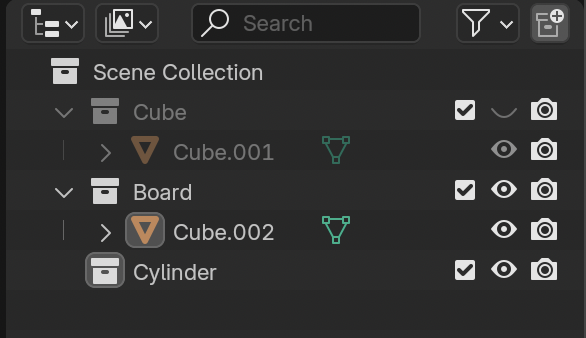
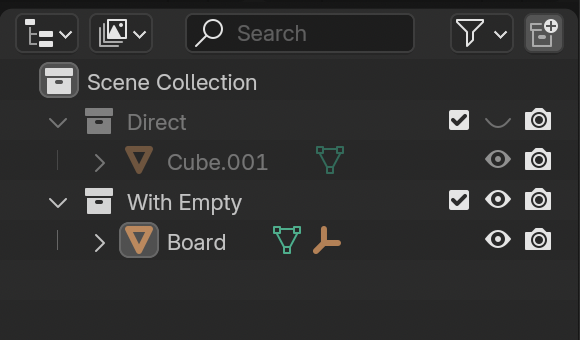
React to feedback

diff --git a/docs/avian/readme.md b/docs/avian/readme.md
@@ -3,6 +3,20 @@
 This guide assumes that you have a basic Blenvy setup ready to tinker in.
 If you don't have that yet, please refer to the [quickstart](../quickstart/readme.md) guide.
 
+## Table of Contents
+
+- [Add Avian to Bevy](#add-avian-to-bevy)
+- [Prepare your Scenes](#prepare-your-scenes)
+- [Create a Rigid Body](#create-a-rigid-body)
+- [Add Primitive Colliders](#add-primitive-colliders)
+  - [Direct](#direct)
+  - [With Empty](#with-empty)
+  - [Wireframes](#wireframes)
+- [Add Dynamic Colliders](#add-dynamic-colliders)
+  - [Convex](#convex)
+  - [Concave](#concave)
+- [Other useful components](#other-useful-components)
+
 ## Add Avian to Bevy
 
 No big surprises here. Simply add `avian3d` as a dependency by running the following from your project root:
@@ -42,76 +56,41 @@ fn setup(mut commands: Commands) {
 
 Run this once with `cargo.run` to generate a `registry.json` that contains the Avian components.
 
-## Prepare the Blueprints
+## Prepare your Scenes
 
-Set up your `World` and `Library` scenes in Blender. Switch to the `Library` scene.
+Set up your `World` and `Library` scenes in Blender.
+
+Go into your `World` scene. If you are coming from the [quickstart guide](../quickstart/readme.md), you can remove the `Player` instance as we don't need it in this guide.
+If you have created this scene yourself in advance, make sure that it contains a camera, a light, and some kind of ground.
+
+Since the objects are quite big, you may need to move the camera a bit further away to see them all.
+We set its Y location to `-15` and the X rotation to `90` for this reason.
+Pressing `0` on your numpad will show you a preview of what the camera sees.
+
+For reference, this is how our world setup looks:
+
+<details>
+<summary>The world setup before adding any physics</summary>
+<img src="img/empty_world.png" width = 100%/>
+</details>
+
+Now switch to the `Library` scene.
 If you're coming from the [quickstart](../quickstart/readme.md) guide, you may now delete the `Player` collection by
-right-clicking it in the outliner and selecting `Delete Hierarchy` as we don't need it in this guide.
+right-clicking it in the outliner and selecting `Delete Hierarchy`.
 Remember, you can find the outliner all the way to the right.
 
-We will be showing different ways to add colliders, so we need to add a blueprint for each approach.
-Create three new collections in the outliner by doing `rightclick` -> `New Collection` and name them as follows:
+## Create a Rigid Body
 
-- Cube
-- Board
-- Cylinder
+Create a new collection with `rightclick` -> `New Collection` and name it `Direct`. This name will make sense in the next section.
 
-Your outliner should now look like this:
-
-<details>
-<summary>Our empty collections</summary>
-<img src="img/empty_collections.png" width = 50%/>
-</details>
-
-If you accidentally created a collection as a child of another, simply drag-and-drop them around to reorder them until they look like the image above.
-
-### Cube
-
-Click on the `Cube` collection we just created to select it. Then, go to `Add` -> `Mesh` -> `Cube` in the upper left corner to add a cube to the collection. Leave it at the default transform.
-
-### Board
-
-Click on the `Board` collection. Again, go to `Add` -> `Mesh` -> `Cube`. This time, scale it until it looks like a flat board:
-
-<details>
-<summary>The cylinder in Blender</summary>
-<img src="img/cylinder.png" width = 50%/>
-</details>
-
-> [!TIP]
-> The above screenshot was made after disabling the visibility of the `Cube` collection by clicking the eye icon in the outliner.
->
-> <details>
-> <summary>Hiding objects</summary>
-> <img src="img/hiding.png" width = 50%/>
-> </details>
->
-> Hiding other collections becomes quickly essential when working with blueprints.
-
-The scaling we used was the following:
-
-- X: `2.5`
-- Y: `0.5`
-- Z: `1.5`
-
-### Cylinder
-
-Finally, click on the `Cylinder` collection. Go to `Add` -> `Mesh` -> `Cylinder`. Leave it at the default transform.
-
-You should now have three collections with different shapes in them:
-<details>
-<summary>Collections with objects in the outliner</summary>
-<img src="img/three_object_collection.png" width = 50%/>
-</details>
-
-## Add RigidBody Components
+Click on the `Direct` collection we just created to select it. Then, go to `Add` -> `Mesh` -> `Cube` in the upper left corner to add a cube to the collection. Leave it at the default transform.
 
 Avian makes a distinction between a *rigid body* and its associated *colliders*.
 In general, the best practice is to have a parent object be a rigid body and then have at least one descendant object be a collider.
 
-Adding the `RigidBody` is the same for all approaches:
+Add the `RigidBody` as follows:
 
-- select the object in the viewport
+- select the object in the viewport, i.e. the cube.
 - go to the Blenvy menu's component manager. Remember, if are missing the side menu, you can open it with `N`.
 - type `rigidbody` in the search bar
 - select `avian3d::dynamics::rigid_body::RigidBody`
@@ -129,7 +108,7 @@ The result should look like this:
 </details>
 
 The default value for `RigidBody` is `Dynamic`, which is what we want for all three objects.
-It means that they will be affected by gravity and other forces. Repeat this step for the `Board` and `Cylinder` objects.
+It means that they will be affected by gravity and other forces.
 
 ## Add Primitive Colliders
 
@@ -137,9 +116,9 @@ Colliders come in two flavors: primitive and dynamic. Primitives are made up of 
 
 There are three different ways to add primitive colliders to the objects, in order of increasing complexity.
 
-### Quick and Dirty
+### Direct
 
-Select the cube and search in the components for `colliderconstructor`. Select `avian3d::collision::collider::constructor::ColliderConstructor` and add it.
+Select the cube we just created and search in the components for `colliderconstructor`. Select `avian3d::collision::collider::constructor::ColliderConstructor` and add it.
 By default, the collider will be of the variant `Sphere`. Change it to `Cuboid`.
 Since the standard cube in Blender is of size 2 m, set the `x_length`, `y_length`, and `z_length` all to `2.0`:
 <details>
@@ -153,10 +132,83 @@ That's already it.
 > This method brings a major footgun: Blender uses Z-up coordinates, while Bevy uses Y-up coordinates.
 > The information you enter into the `ColliderConstructor` is in Bevy's coordinate system, so don't mix them up!
 
-### Using Empties
+To see it in action, we switch to the `World` scene and add and instance of our `Direct` collection with `Add` -> `Collection Instance`.
+
+<details>
+<summary>The world scene with the direct collider cube</summary>
+<img src="img/direct_in_world.png" width = 50%/>
+</details>
+
+Save the scene to let Blenvy export everything and run the game with `cargo run`.
+
+<details>
+<summary>The cube falls down</summary>
+<img src="img/falling_direct.gif" width = 50%/>
+</details>
+
+If everything went right, your cube should fall into the void due to gravity.
+Note that it phases right through the ground because we have not yet added a rigid body and collider to it yet.
+
+Click on the ground and add a `RigidBody` component as described before to it, but this time set it to `Static`.
+This means that the ground itself will not react to forces such as gravity, but will still affect other rigid bodies.
+
+Add a collider to the ground as before. Make sure that the dimensions of the collider match the dimensions of the ground.
+
+<details>
+<summary>Ground collider</summary>
+<img src="img/ground collider.png" width = 100%/>
+</details>
+
+> [!CAUTION]
+> As mentioned before, when using this method you should be aware that the component
+> is in Bevy's coordinate system, so set the `y_length` to the *height* of the ground.
+
+Run your game again with `cargo run` to see the cube landing on the ground.
+
+<details>
+<summary>The cube falls onto the ground</summary>
+<img src="img/falling_direct_on_static.gif" width = 50%/>
+</details>
+
+> [!TIP]
+> If your scene is doing something weird, try adding Avian's
+> [`PhysicsDebugPlugin`](https://docs.rs/avian3d/latest/avian3d/debug_render/struct.PhysicsDebugPlugin.html)
+> to your Bevy app to see the colliders at runtime.  
+> If the collider looks flipped, try switching the Y and Z lengths.
+
+### With Empty
+
+Go back to the `Library` scene. Add a collection named `With Empty`.
+
+> [!TIP]
+> If you accidentally created a collection as a child of another, simply drag-and-drop them around to reorder them
+
+With the new collection selected, go to `Add` -> `Mesh` -> `Cube`. Name the new object `Board`.
+This time, scale it until it looks like a flat board:
+
+<details>
+<summary>The board in Blender</summary>
+<img src="img/board.png" width = 50%/>
+</details>
+
+> [!TIP]
+> The above screenshot was made after disabling the visibility of the `Direct` collection by clicking the eye icon in the outliner.
+>
+> <details>
+> <summary>Hiding objects</summary>
+> <img src="img/hiding.png" width = 50%/>
+> </details>
+>
+> Hiding other collections becomes quickly essential when working with blueprints.
+
+The scaling we used was the following:
+
+- X: `2.5`
+- Y: `0.5`
+- Z: `1.5`
 
 You'll notice that the last variant does not actually show you a preview of the collider. Let's fix that.
-Click on the `Board` and then select `Add` -> `Empty` -> `Cube`.
+Click on the `With Empty` collection and then select `Add` -> `Empty` -> `Cube`.
 To make its properties a bit nice to work with, go to the `Data` tab of the `Properties` window in the lower right:
 
 <details>
@@ -171,7 +223,7 @@ You'll notice that it says "Size: 1m". This is a little bit misleading, as we've
 <img src="img/data.png" width = 50%/>
 </details>
 
-Add a collider to this empty like you did in the ["Quick and Dirty" section](#quick-and-dirty).
+Add a collider to this empty like you did in the ["Direct" section](#direct).
 Set its lengths to `1` this time.
 
 If you have only the `Empty` set to visible and selected it, your viewport should now look as follows:
@@ -235,7 +287,18 @@ You can just use these values as the scale for the `Empty`. After everything is 
 
 Note that the orange collider outlines should align nicely with the board's mesh.
 
-### Using Wireframes
+Add an instance of the `With Empty` collection to the `World` scene just as before and run the game.
+You should now see both objects fall to the ground.
+
+<details>
+<summary>The cube and board falling to the ground</summary>
+<img src="img/falling_empty.png" width = 50%/>
+</details>
+
+### Wireframes
+
+Add a new collection named `Wireframe`. With it selected,
+go to `Add` -> `Mesh` -> `Cylinder`. Leave it at the default transform.
 
 The last variant is a bit of a workaround for the fact that empties in Blender cannot have an arbitrary shape.
 For example, a cylinder is not supported. So, we are going to create a new cylinder preview by hand.
@@ -289,45 +352,12 @@ The rest of the steps are identical to the empty: Drag-and-drop the cylinder col
 > You can use the builtin [Add Mesh Extra Objects](https://docs.blender.org/manual/en/latest/addons/add_mesh/mesh_extra_objects.html)
 > extension to fill this gap.
 
-## Populate the world
-
-Go into your `World` scene. If you are coming from the [quickstart guide](../quickstart/readme.md), you can remove the `Player` empty that is left over.
-If you have created this scene yourself in advance, make sure that it contains a camera, a light, and some kind of ground.
-For reference, this is how our world setup looks:
+Add an instance of the `Wireframe` collection to the `World` scene and run the game to see all kinds of primitive colliders tumble around.
 
 <details>
-<summary>The world setup before adding any physics</summary>
-<img src="img/empty_world.png" width = 100%/>
+<summary>Cylinder collider falling down</summary>
+<img src="img/falling_wireframe.gif" width = 50%/>
 </details>
-
-Before we add any objects, we'll make the ground a rigid body as well. Add a `RigidBody` component as described before to it, but this time set it to `Static`. Add a collider to it in any of the ways described above. We used the `Quick and Dirty` method for this:
-
-<details>
-<summary>Ground collider</summary>
-<img src="img/ground collider.png" width = 100%/>
-</details>
-
-> [!CAUTION]
-> As mentioned before, when using this method you should be aware that the component
-> is in Bevy's coordinate system, so set the `y_length` to the height of the ground.
-
-Now add instances of the `Cube`, `Board`, and `Cylinder` to the world by selecting `Add` -> `Collection Instance`.
-
-Since the objects are quite big, you may need to move the camera a bit further away to see them all.
-We set its Y location to `-15` and the X rotation to `90` for this reason.
-Pressing `0` on your numpad will show you a preview of what the camera sees.
-
-Save the scene to let Blenvy export everything. Run your game with `cargo run` and you should see some objects falling onto the ground!
-
-<details>
-<summary>Objects falling onto the ground</summary>
-<img src="img/falling.gif" width = 100%/>
-</details>
-
-> [!TIP]
-> If your scene is doing something weird, try adding Avian's
-> [`PhysicsDebugPlugin`](https://docs.rs/avian3d/latest/avian3d/debug_render/struct.PhysicsDebugPlugin.html)
-> to your Bevy app to see the colliders at runtime.
 
 ## Add Dynamic Colliders
 
@@ -337,7 +367,7 @@ or just quickly want to test something. For this, we are going to use dynamic co
 
 ### Convex
 
-Go back to the `Library` scene, add a new collection, and name it `Torus`. Select `Add` -> `Mesh` -> `Torus`. Leave it at the default transform. Add a `RigidBody` to it. Your scene should now look like this:
+Go back to the `Library` scene, add a new collection, and name it `Convex`. Select `Add` -> `Mesh` -> `Torus`. Leave it at the default transform. Add a `RigidBody` to it. Your scene should now look like this:
 
 <details>
 <summary>A simple torus</summary>
@@ -355,7 +385,7 @@ You can access it by expanding your object in the outliner. Its icon is a green 
 
 <details>
 <summary>The selected mesh</summary>
-<img src="img/selected_mesh.png" width = 50%/>
+<img src="img/select_mesh.png" width = 50%/>
 </details>
 
 With the *mesh* selected, add a `ColliderConstructor` to it. Set the variant to `ConvexHullFromMesh`.
@@ -366,11 +396,21 @@ If you did everything correctly, the component manager should say "Components fo
 <img src="img/torus_component.png" width = 50%/>
 </details>
 
-That's all for now
+Go to the `World` scene and add an instance of the `Convex` collection. Save the scene, then run the game to see the torus fall down.
+
+<details>
+<summary>The convex collider falling</summary>
+<img src="img/falling_convex.gif" width = 50%/>
+</details>
+
+> [!TIP]
+> Is your game crashing with `Tried to add a collider to entity Torus via ConvexHullFromMesh that requires a mesh, but no mesh handle was found`?
+> That means you added your `ColliderConstructor` to the object instead of the mesh.
+> Go back to the screenshots above and make sure you have the mesh selected when adding the component.
 
 ### Concave
 
-Add a new collection and name it `Monkey`. Select `Add` -> `Mesh` -> `Monkey`.
+Add a new collection and name it `Concave`. Select `Add` -> `Mesh` -> `Monkey`.
 Yes, Blender has a builtin method for creating Suzanne, its monkey mascot. Isn't it great?
 Anyways, add a rigid body to it. Afterwards, just as before, select the *mesh* of the monkey.
 Add a `ColliderConstructor` to it. This time, set the variant to `TrimeshFromMesh`.
@@ -381,21 +421,12 @@ Add a `ColliderConstructor` to it. This time, set the variant to `TrimeshFromMes
 > That means that any objects that are completely inside the mesh will not collide with it.
 > Only use a concave collider if you *really* need it.
 
-## Add the Dynamic Colliders to the World
-
-Save the scene to let Blenvy export everything.
-Go back to the `World` scene. Add instances of the `Torus` and `Monkey` collections to the world and run the game with `cargo run`.
-They should now fall onto the ground and interact with the other objects:
+Just as before, go to the `World` scene and add an instance of the `Concave` collection. Save the scene, then run the game to see the torus fall down.
 
 <details>
-<summary>The primitive and dynamic colliders falling down</summary>
-<img src="img/falling_dyn.gif" width = 100%/>
+<summary>The concave collider falling</summary>
+<img src="img/falling_concave.gif" width = 50%/>
 </details>
-
-> [!TIP]
-> Is your game crashing with `Tried to add a collider to entity Torus via <ConvexHullFromMesh or TrimeshFromMesh> that requires a mesh, but no mesh handle was found`?
-> That means you added your `ColliderConstructor` to the object instead of the mesh.
-> Go back to the screenshots above and make sure you have the mesh selected when adding the component.
 
 ## Other useful components
 
